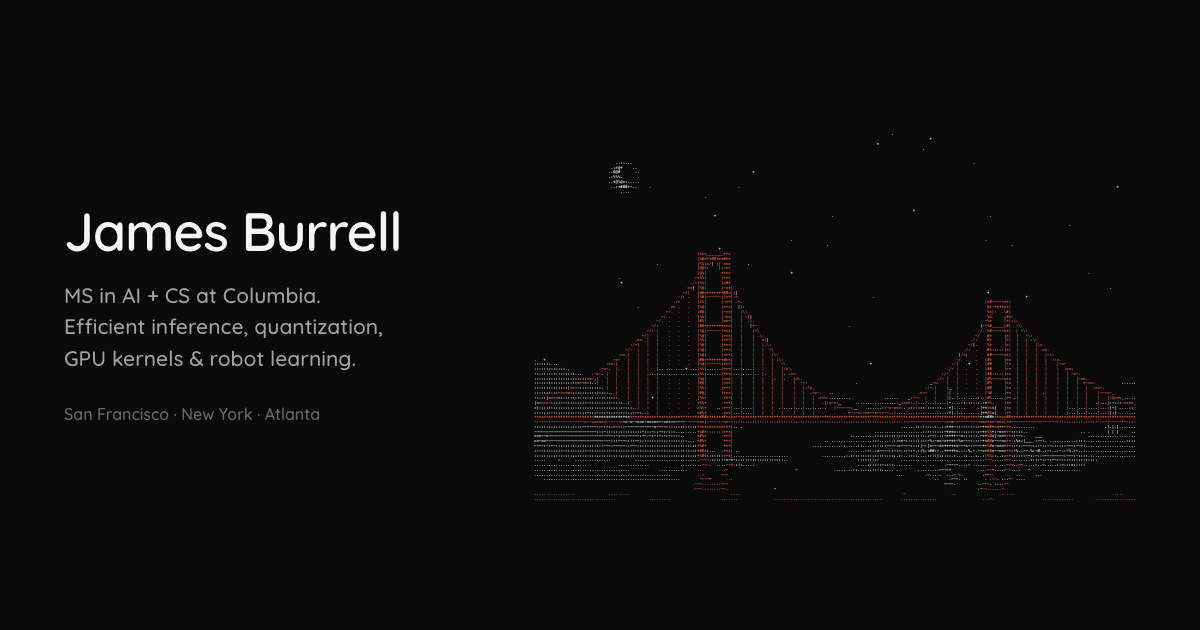
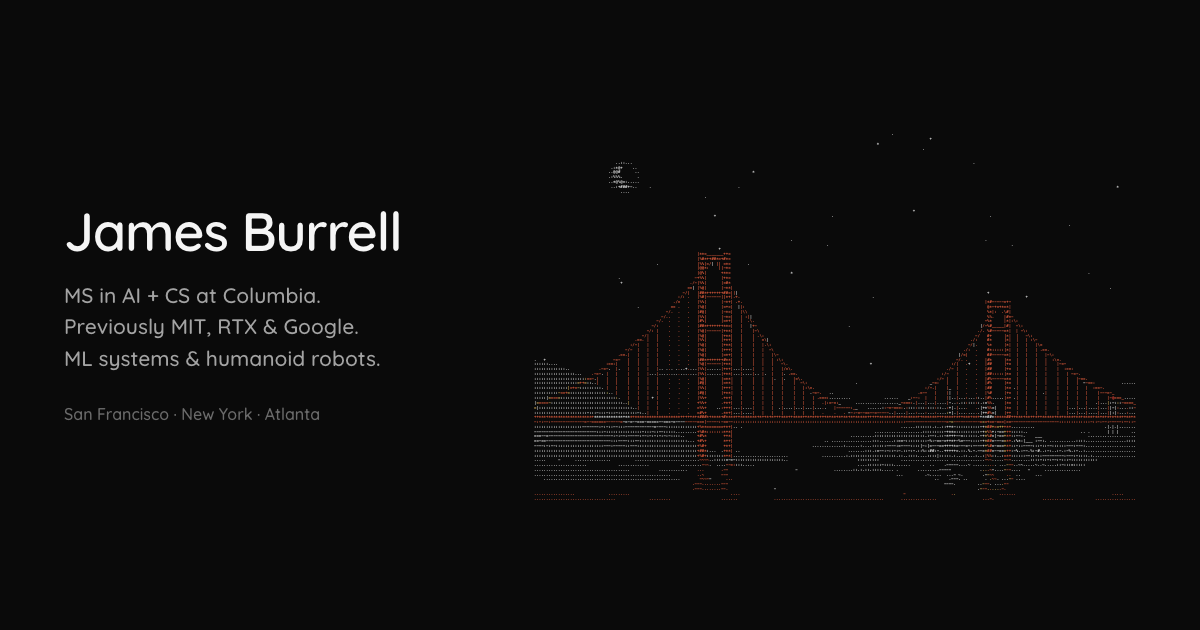
Update bio: previously MIT, RTX and Google; humanoid work
Drop the current RTX internship, list past roles at MIT, RTX and Google,
and describe the humanoid robotics work (GetUp and the sim-to-real RL
follow-up). Refresh the meta descriptions and social preview image.

Changed region(s): [[0.0617, 0.5127, 0.3083, 0.6032]]

diff --git a/index.html b/index.html
@@ -4,14 +4,14 @@
   <meta charset="utf-8">
   <meta name="viewport" content="width=device-width, initial-scale=1, viewport-fit=cover">
   <title>James Burrell</title>
-  <meta name="description" content="James Burrell: MS in AI + CS at Columbia, ML engineering intern at RTX. Efficient inference, quantization, GPU kernels and robot learning. San Francisco, New York & Atlanta.">
+  <meta name="description" content="James Burrell: MS in AI + CS at Columbia, previously at MIT, RTX and Google. Efficient inference, quantization, GPU kernels and humanoid robots. San Francisco, New York & Atlanta.">
   <meta name="author" content="James Burrell">
   <meta name="theme-color" content="#0a0a0a">
   <meta name="color-scheme" content="dark">
 
   <meta property="og:type" content="website">
   <meta property="og:title" content="James Burrell">
-  <meta property="og:description" content="MS in AI + CS at Columbia. Efficient inference, quantization, GPU kernels and robot learning. SF · NYC · ATL.">
+  <meta property="og:description" content="MS in AI + CS at Columbia, previously MIT, RTX and Google. ML systems and humanoid robots. SF · NYC · ATL.">
   <meta property="og:image" content="https://jburrell999.github.io/assets/og.png">
   <meta property="og:url" content="https://jburrell999.github.io/">
   <meta name="twitter:card" content="summary_large_image">
@@ -29,22 +29,28 @@
 
       <p>
         I'm a master's student at <a href="https://www.columbia.edu/" target="_blank" rel="noopener noreferrer">Columbia</a>
-        studying <a href="https://www.cs.columbia.edu/" target="_blank" rel="noopener noreferrer">artificial intelligence and computer science</a>,
-        and a machine learning engineering intern at <a href="https://www.rtx.com/" target="_blank" rel="noopener noreferrer">RTX</a>.
+        studying <a href="https://www.cs.columbia.edu/" target="_blank" rel="noopener noreferrer">artificial intelligence and computer science</a>.
         I work on the systems side of ML: efficient <a href="https://mlsysbook.ai/" target="_blank" rel="noopener noreferrer">inference</a>,
         <a href="https://arxiv.org/abs/2210.17323" target="_blank" rel="noopener noreferrer">quantization</a>,
         <a href="https://www.gpumode.com/" target="_blank" rel="noopener noreferrer">GPU kernels</a>,
-        and getting models to give the same answer twice. Lately I've also been building with
-        vision-language models for <a href="https://mujoco.org/" target="_blank" rel="noopener noreferrer">robot learning</a>.
+        and getting models to give the same answer twice, and on
+        <a href="https://en.wikipedia.org/wiki/Humanoid_robot" target="_blank" rel="noopener noreferrer">humanoid robots</a>.
+        I previously worked at <a href="https://www.mit.edu/" target="_blank" rel="noopener noreferrer">MIT</a>,
+        <a href="https://www.rtx.com/" target="_blank" rel="noopener noreferrer">RTX</a>, and
+        <a href="https://about.google/" target="_blank" rel="noopener noreferrer">Google</a>.
       </p>
 
       <p>
-        My current research asks whether <a href="https://github.com/JBurrell999/IntChat" target="_blank" rel="noopener noreferrer">static INT8 quantization</a>
-        can serve as a reproducibility primitive for transformer inference. Outside of research I like ML systems competitions
-        like <a href="https://www.gpumode.com/" target="_blank" rel="noopener noreferrer">GPU MODE</a> and
-        <a href="https://adaptfm.gitlab.io/call-for-competition/" target="_blank" rel="noopener noreferrer">AdaptFM</a>, and hackathons.
-        Most recently I built <a href="https://github.com/JBurrell999/GetUp" target="_blank" rel="noopener noreferrer">GetUp</a>,
-        which turns a phone video into a humanoid robot's motion, in one day at the Gemini 4 NYC hackathon.
+        On the humanoid side, I'm teaching robots to move by watching ordinary video.
+        <a href="https://github.com/JBurrell999/GetUp" target="_blank" rel="noopener noreferrer">GetUp</a>, built in one day at the
+        Gemini 4 NYC hackathon, turns a short phone clip into motion that a
+        <a href="https://www.unitree.com/" target="_blank" rel="noopener noreferrer">Unitree humanoid</a> replays in
+        <a href="https://mujoco.org/" target="_blank" rel="noopener noreferrer">MuJoCo</a>, with no mocap or markers, and I'm working
+        on reinforcement learning policies to carry that motion from simulation to a real robot. My current research asks whether
+        <a href="https://github.com/JBurrell999/IntChat" target="_blank" rel="noopener noreferrer">static INT8 quantization</a>
+        can serve as a reproducibility primitive for transformer inference, and I like ML systems competitions like
+        <a href="https://www.gpumode.com/" target="_blank" rel="noopener noreferrer">GPU MODE</a> and
+        <a href="https://adaptfm.gitlab.io/call-for-competition/" target="_blank" rel="noopener noreferrer">AdaptFM</a>.
       </p>
 
       <p>
